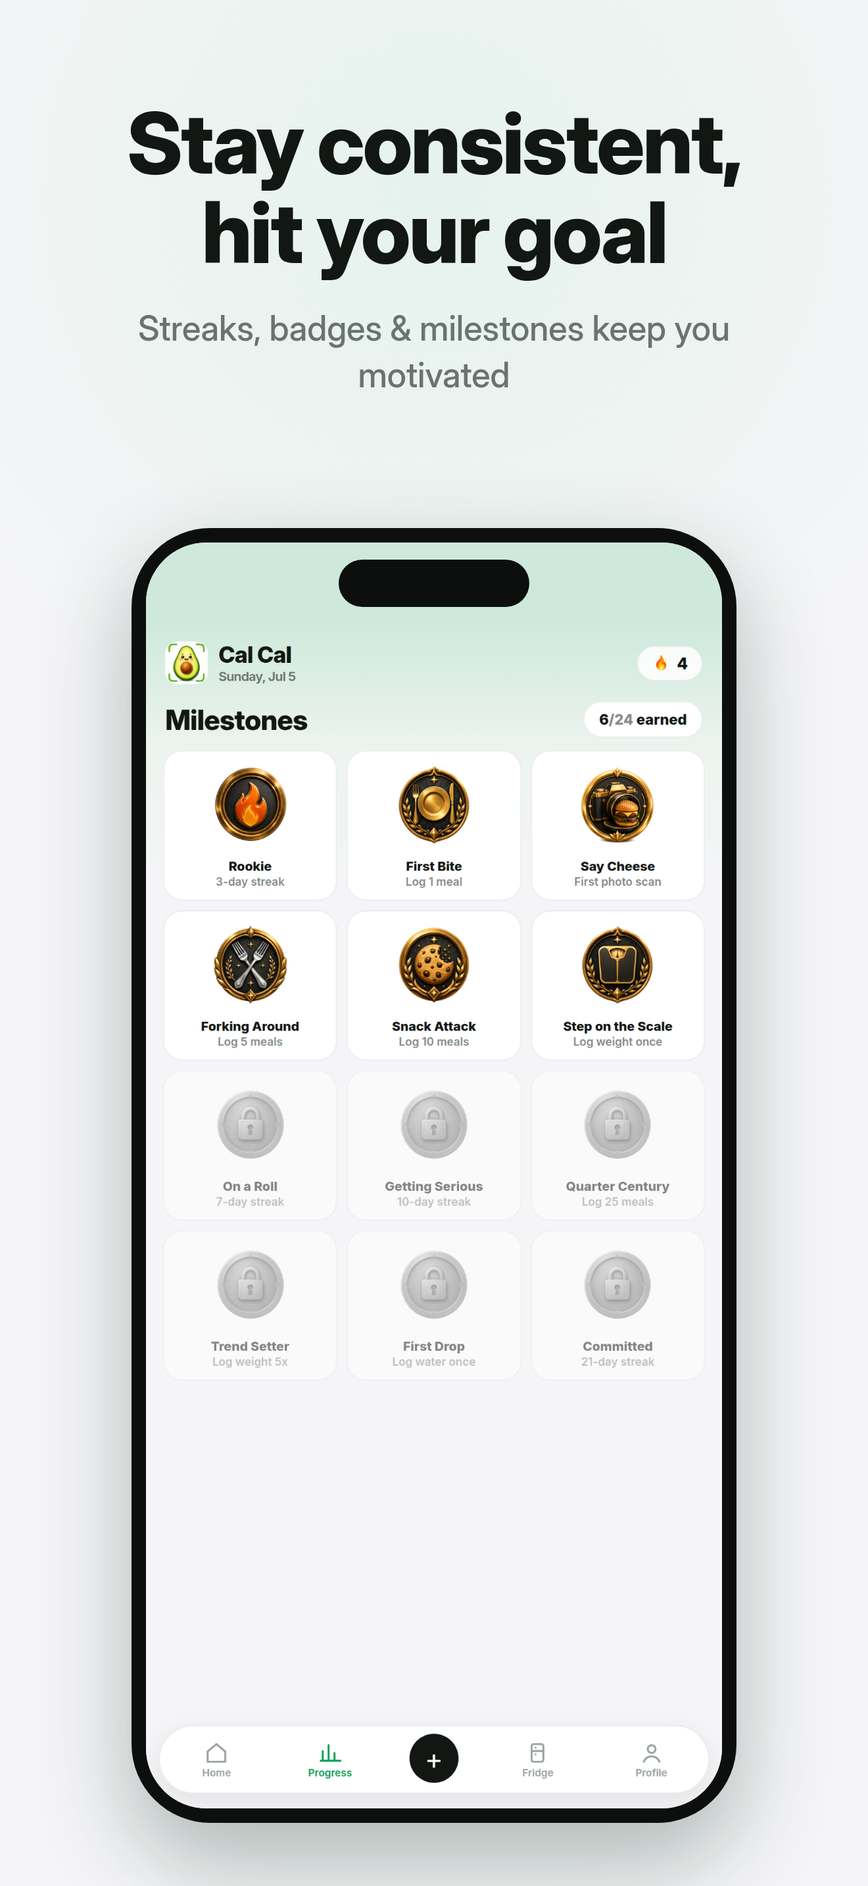
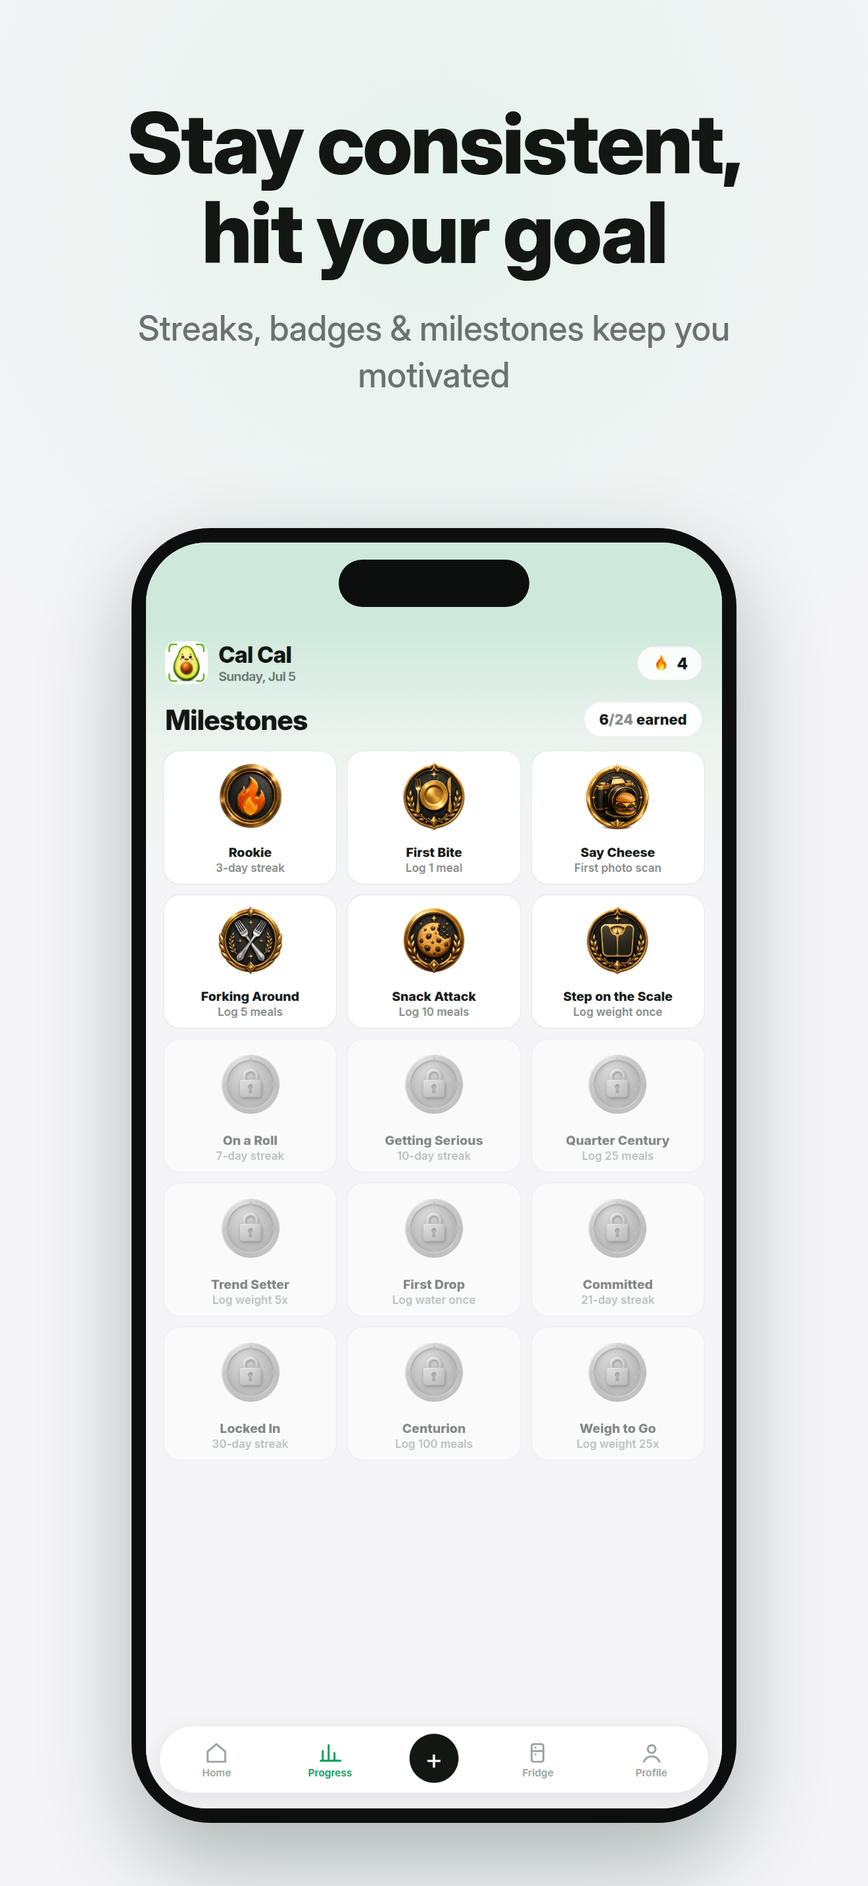
Screenshot set v4: round-3 feedback
1: pop-out now shows the full day (calorie ring, goal/eaten/streak,
   macro rings) in one card
6: transformation tiles upgraded to clothed human figures
7: plan reveal journey is a 4-checkpoint stepper, no longer a chart
8: sealed photoreal wrapper (matte film, crimped ends, printed
   barcode) with scan beam on the wrapper barcode
9: water card removed from the health screen so only the pop-out
   shows it; rollover-calories card added in its place
10: milestones grid now 5 rows / 15 badges, fills the screen

Claude-Session: https://claude.ai/code/session_01U8zB96jntubMM3RPL6Mws6

Changed region(s): [[0.2174, 0.4034, 0.3417, 0.7758], [0.6523, 0.4034, 0.7765, 0.7758], [0.4348, 0.4034, 0.5591, 0.7758]]

diff --git a/appstore/screens2.js b/appstore/screens2.js
@@ -149,18 +149,42 @@ barcode2: `
   <div style="position:absolute;bottom:0;left:0;width:62px;height:62px;border-bottom:6px solid #fff;border-left:6px solid #fff;border-bottom-left-radius:28px;filter:drop-shadow(0 3px 8px rgba(0,0,0,.18))"></div>
   <div style="position:absolute;bottom:0;right:0;width:62px;height:62px;border-bottom:6px solid #fff;border-right:6px solid #fff;border-bottom-right-radius:28px;filter:drop-shadow(0 3px 8px rgba(0,0,0,.18))"></div>
 
-  <!-- real protein bar photo -->
-  <div style="position:absolute;left:10px;right:10px;top:60px;text-align:center;transform:rotate(-3deg)">
-    <img src="file://${S}/assets/bar_real.png" style="width:96%;filter:drop-shadow(0 26px 34px rgba(90,60,20,.35))">
-    <div style="display:inline-block;background:#fff;border-radius:14px;padding:14px 18px 8px;box-shadow:0 10px 26px rgba(90,60,20,.28);margin-top:-30px">
-      <svg viewBox="0 0 300 74" style="width:250px">
-        <rect x="5.0" y="0" width="1.7" height="56" fill="#17140e"/><rect x="11.3" y="0" width="3.4" height="56" fill="#17140e"/><rect x="17.6" y="0" width="1.7" height="56" fill="#17140e"/><rect x="23.9" y="0" width="5.1" height="56" fill="#17140e"/><rect x="30.2" y="0" width="2.55" height="56" fill="#17140e"/><rect x="36.5" y="0" width="1.7" height="56" fill="#17140e"/><rect x="42.8" y="0" width="4.25" height="56" fill="#17140e"/><rect x="49.1" y="0" width="1.7" height="56" fill="#17140e"/><rect x="55.4" y="0" width="2.55" height="56" fill="#17140e"/><rect x="61.699999999999996" y="0" width="3.4" height="56" fill="#17140e"/><rect x="68.0" y="0" width="1.7" height="56" fill="#17140e"/><rect x="74.3" y="0" width="3.4" height="56" fill="#17140e"/><rect x="80.6" y="0" width="1.7" height="56" fill="#17140e"/><rect x="86.89999999999999" y="0" width="5.1" height="56" fill="#17140e"/><rect x="93.2" y="0" width="2.55" height="56" fill="#17140e"/><rect x="99.5" y="0" width="1.7" height="56" fill="#17140e"/><rect x="105.8" y="0" width="4.25" height="56" fill="#17140e"/><rect x="112.1" y="0" width="1.7" height="56" fill="#17140e"/><rect x="118.39999999999999" y="0" width="2.55" height="56" fill="#17140e"/><rect x="124.7" y="0" width="3.4" height="56" fill="#17140e"/><rect x="131.0" y="0" width="1.7" height="56" fill="#17140e"/><rect x="137.29999999999998" y="0" width="3.4" height="56" fill="#17140e"/><rect x="143.6" y="0" width="1.7" height="56" fill="#17140e"/><rect x="149.9" y="0" width="5.1" height="56" fill="#17140e"/><rect x="156.2" y="0" width="2.55" height="56" fill="#17140e"/><rect x="162.5" y="0" width="1.7" height="56" fill="#17140e"/><rect x="168.79999999999998" y="0" width="4.25" height="56" fill="#17140e"/><rect x="175.1" y="0" width="1.7" height="56" fill="#17140e"/><rect x="181.4" y="0" width="2.55" height="56" fill="#17140e"/><rect x="187.7" y="0" width="3.4" height="56" fill="#17140e"/><rect x="194.0" y="0" width="1.7" height="56" fill="#17140e"/><rect x="200.29999999999998" y="0" width="3.4" height="56" fill="#17140e"/><rect x="206.6" y="0" width="1.7" height="56" fill="#17140e"/><rect x="212.9" y="0" width="5.1" height="56" fill="#17140e"/><rect x="219.2" y="0" width="2.55" height="56" fill="#17140e"/><rect x="225.5" y="0" width="1.7" height="56" fill="#17140e"/><rect x="231.79999999999998" y="0" width="4.25" height="56" fill="#17140e"/><rect x="238.1" y="0" width="1.7" height="56" fill="#17140e"/><rect x="244.4" y="0" width="2.55" height="56" fill="#17140e"/><rect x="250.7" y="0" width="3.4" height="56" fill="#17140e"/><rect x="257.0" y="0" width="1.7" height="56" fill="#17140e"/><rect x="263.3" y="0" width="3.4" height="56" fill="#17140e"/><rect x="269.59999999999997" y="0" width="1.7" height="56" fill="#17140e"/><rect x="275.9" y="0" width="5.1" height="56" fill="#17140e"/><rect x="282.2" y="0" width="2.55" height="56" fill="#17140e"/><rect x="288.5" y="0" width="1.7" height="56" fill="#17140e"/>
-        <text x="150" y="72" font-size="14" fill="#17140e" text-anchor="middle" font-family="Inter" font-weight="700">0 41220 88472 5</text>
-      </svg>
+  <!-- sealed protein bar wrapper (photoreal) -->
+  <div style="position:absolute;left:34px;right:34px;top:88px;height:296px;transform:rotate(-4deg);filter:drop-shadow(0 34px 40px rgba(70,50,20,.38))">
+    <svg width="0" height="0"><filter id="noise"><feTurbulence type="fractalNoise" baseFrequency="0.9" numOctaves="2"/><feColorMatrix type="saturate" values="0"/><feComponentTransfer><feFuncA type="linear" slope="0.14"/></feComponentTransfer><feComposite operator="over" in2="SourceGraphic"/></filter></svg>
+    <!-- crimped ends -->
+    <div style="position:absolute;left:-14px;top:26px;bottom:26px;width:34px;background:repeating-linear-gradient(180deg,#5A3B23 0 9px,#7A5433 9px 18px);border-radius:8px 0 0 8px;transform:skewY(-3deg)"></div>
+    <div style="position:absolute;right:-14px;top:26px;bottom:26px;width:34px;background:repeating-linear-gradient(180deg,#5A3B23 0 9px,#7A5433 9px 18px);border-radius:0 8px 8px 0;transform:skewY(3deg)"></div>
+    <!-- wrapper body with cylindrical shading + bar ridges -->
+    <div style="position:absolute;left:12px;right:12px;top:0;bottom:0;border-radius:22px;overflow:hidden;
+      background:
+        linear-gradient(180deg, rgba(0,0,0,.32) 0%, rgba(255,255,255,.16) 9%, rgba(255,255,255,0) 22%, rgba(0,0,0,0) 74%, rgba(0,0,0,.30) 96%),
+        repeating-linear-gradient(90deg, rgba(0,0,0,.05) 0 3px, rgba(255,255,255,.04) 3px 6px),
+        linear-gradient(160deg,#6B4226 0%,#7E5230 30%,#5C3820 65%,#4A2C17 100%);
+      box-shadow: inset 0 4px 14px rgba(255,255,255,.28), inset 0 -8px 18px rgba(0,0,0,.42);">
+      <!-- specular sweep -->
+      <div style="position:absolute;left:14%;top:-40px;bottom:-40px;width:120px;background:linear-gradient(90deg,transparent,rgba(255,255,255,.34),transparent);transform:rotate(14deg)"></div>
+      <div style="position:absolute;left:64%;top:-40px;bottom:-40px;width:46px;background:linear-gradient(90deg,transparent,rgba(255,255,255,.18),transparent);transform:rotate(14deg)"></div>
+      <!-- matte film noise -->
+      <div style="position:absolute;inset:0;filter:url(#noise)"></div>
+      <!-- printed design -->
+      <div style="position:absolute;left:0;right:0;top:34px;text-align:center">
+        <div style="display:inline-flex;align-items:center;gap:8px;color:#F6E7C8;font-size:14px;font-weight:900;letter-spacing:.26em">🥑 CAL PRO</div>
+        <div style="color:#fff;font-size:30px;font-weight:900;letter-spacing:.04em;margin-top:6px;text-shadow:0 2px 6px rgba(0,0,0,.4)">PROTEIN BAR</div>
+        <div style="display:inline-block;background:#F3B33C;color:#4A2C17;font-size:12.5px;font-weight:900;letter-spacing:.14em;padding:6px 16px;border-radius:999px;margin-top:9px;box-shadow:0 3px 8px rgba(0,0,0,.3)">CHOCOLATE CHIP · 20G PROTEIN</div>
+      </div>
+      <!-- printed barcode, bottom right of the wrapper -->
+      <div style="position:absolute;right:24px;bottom:20px;background:#F4EFE6;border-radius:8px;padding:9px 12px 5px;box-shadow:0 2px 8px rgba(0,0,0,.35)">
+        <svg viewBox="0 0 190 52" style="width:158px;display:block">
+          <rect x="4.0" y="0" width="1.2800000000000002" height="38" fill="#241c12"/><rect x="8.6" y="0" width="2.4000000000000004" height="38" fill="#241c12"/><rect x="13.2" y="0" width="1.2800000000000002" height="38" fill="#241c12"/><rect x="17.799999999999997" y="0" width="3.5200000000000005" height="38" fill="#241c12"/><rect x="22.4" y="0" width="1.7600000000000002" height="38" fill="#241c12"/><rect x="27.0" y="0" width="1.2800000000000002" height="38" fill="#241c12"/><rect x="31.599999999999998" y="0" width="2.8800000000000003" height="38" fill="#241c12"/><rect x="36.199999999999996" y="0" width="1.2800000000000002" height="38" fill="#241c12"/><rect x="40.8" y="0" width="1.7600000000000002" height="38" fill="#241c12"/><rect x="45.4" y="0" width="2.4000000000000004" height="38" fill="#241c12"/><rect x="50.0" y="0" width="1.2800000000000002" height="38" fill="#241c12"/><rect x="54.599999999999994" y="0" width="2.4000000000000004" height="38" fill="#241c12"/><rect x="59.199999999999996" y="0" width="1.2800000000000002" height="38" fill="#241c12"/><rect x="63.8" y="0" width="3.5200000000000005" height="38" fill="#241c12"/><rect x="68.39999999999999" y="0" width="1.7600000000000002" height="38" fill="#241c12"/><rect x="73.0" y="0" width="1.2800000000000002" height="38" fill="#241c12"/><rect x="77.6" y="0" width="2.8800000000000003" height="38" fill="#241c12"/><rect x="82.19999999999999" y="0" width="1.2800000000000002" height="38" fill="#241c12"/><rect x="86.8" y="0" width="1.7600000000000002" height="38" fill="#241c12"/><rect x="91.39999999999999" y="0" width="2.4000000000000004" height="38" fill="#241c12"/><rect x="96.0" y="0" width="1.2800000000000002" height="38" fill="#241c12"/><rect x="100.6" y="0" width="2.4000000000000004" height="38" fill="#241c12"/><rect x="105.19999999999999" y="0" width="1.2800000000000002" height="38" fill="#241c12"/><rect x="109.8" y="0" width="3.5200000000000005" height="38" fill="#241c12"/><rect x="114.39999999999999" y="0" width="1.7600000000000002" height="38" fill="#241c12"/><rect x="118.99999999999999" y="0" width="1.2800000000000002" height="38" fill="#241c12"/><rect x="123.6" y="0" width="2.8800000000000003" height="38" fill="#241c12"/><rect x="128.2" y="0" width="1.2800000000000002" height="38" fill="#241c12"/><rect x="132.79999999999998" y="0" width="1.7600000000000002" height="38" fill="#241c12"/><rect x="137.39999999999998" y="0" width="2.4000000000000004" height="38" fill="#241c12"/><rect x="142.0" y="0" width="1.2800000000000002" height="38" fill="#241c12"/><rect x="146.6" y="0" width="2.4000000000000004" height="38" fill="#241c12"/><rect x="151.2" y="0" width="1.2800000000000002" height="38" fill="#241c12"/><rect x="155.79999999999998" y="0" width="3.5200000000000005" height="38" fill="#241c12"/><rect x="160.39999999999998" y="0" width="1.7600000000000002" height="38" fill="#241c12"/><rect x="165.0" y="0" width="1.2800000000000002" height="38" fill="#241c12"/><rect x="169.6" y="0" width="2.8800000000000003" height="38" fill="#241c12"/><rect x="174.2" y="0" width="1.2800000000000002" height="38" fill="#241c12"/><rect x="178.79999999999998" y="0" width="1.7600000000000002" height="38" fill="#241c12"/><rect x="183.39999999999998" y="0" width="2.4000000000000004" height="38" fill="#241c12"/>
+          <text x="95" y="50" font-size="11" fill="#241c12" text-anchor="middle" font-family="Inter" font-weight="700">7 290111 84205 3</text>
+        </svg>
+      </div>
+      <div style="position:absolute;left:24px;bottom:22px;color:rgba(255,255,255,.75);font-size:10.5px;font-weight:700;letter-spacing:.08em">NET WT 52g</div>
     </div>
   </div>
   <!-- scan beam -->
-  <div style="position:absolute;left:16px;right:16px;top:236px;height:4px;background:linear-gradient(90deg,transparent,#19CC6B 25%,#19CC6B 75%,transparent);box-shadow:0 0 22px 4px rgba(25,204,107,.55);border-radius:99px"></div>
+  <div style="position:absolute;right:30px;width:230px;top:322px;height:4px;background:linear-gradient(90deg,transparent,#19CC6B 20%,#19CC6B 80%,transparent);box-shadow:0 0 24px 5px rgba(25,204,107,.6);border-radius:99px;transform:rotate(-4deg)"></div>
 </div>
 
 <!-- popping found pill -->

diff --git a/appstore/screens.js b/appstore/screens.js
@@ -106,13 +106,21 @@ ${APPHEAD}
   <div style="background:rgba(25,204,107,.12);color:#0D9E52;font-weight:800;font-size:12.5px;padding:6px 11px;border-radius:999px">▼ 15.4 lb so far</div></div>
   <div style="display:flex;gap:10px;margin-top:12px">
     <div style="flex:1;background:linear-gradient(180deg,#F3F6F4,#E9EFEA);border-radius:18px;padding:12px 8px;text-align:center">
-      <svg viewBox="0 0 100 150" style="height:120px"><circle cx="50" cy="22" r="15" fill="#B9C8BF"/><path d="M50 40 C16 40 20 70 20 95 L28 148 L72 148 L80 95 C80 70 84 40 50 40 Z" fill="#B9C8BF"/></svg>
+      <svg viewBox="0 0 100 150" style="height:120px">
+      <circle cx="50" cy="18" r="13" fill="#E8B98F"/>
+      <path d="M50 33 C20 33 14 62 15 88 C16 102 22 108 30 108 L34 148 L47 148 L47 112 L53 112 L53 148 L66 148 L70 108 C78 108 84 102 85 88 C86 62 80 33 50 33 Z" fill="#7A8B95"/>
+      <path d="M50 33 C20 33 14 62 15 88 L85 88 C86 62 80 33 50 33 Z" fill="#8FA3AE"/>
+    </svg>
       <div style="font-size:16px;font-weight:800;margin-top:6px">212 lb</div>
       <div class="sub2">Before · Mar 2</div>
     </div>
     <div style="display:flex;align-items:center;font-size:22px;color:#0D9E52;font-weight:800">→</div>
     <div style="flex:1;background:linear-gradient(180deg,#EAF9F0,#DCF3E5);border-radius:18px;padding:12px 8px;text-align:center;border:2px solid #19CC6B">
-      <svg viewBox="0 0 100 150" style="height:120px"><circle cx="50" cy="22" r="15" fill="#B9C8BF"/><path d="M50 40 C28 40 32 70 32 95 L37 148 L63 148 L68 95 C68 70 72 40 50 40 Z" fill="#B9C8BF"/></svg>
+      <svg viewBox="0 0 100 150" style="height:120px">
+      <circle cx="50" cy="18" r="13" fill="#E8B98F"/>
+      <path d="M50 33 C33 33 30 58 31 82 C31.5 94 36 100 41 100 L42 148 L48 148 L48 106 L52 106 L52 148 L58 148 L59 100 C64 100 68.5 94 69 82 C70 58 67 33 50 33 Z" fill="#19CC6B"/>
+      <path d="M50 33 C33 33 30 58 31 82 L69 82 C70 58 67 33 50 33 Z" fill="#31D67F"/>
+    </svg>
       <div style="font-size:16px;font-weight:800;margin-top:6px;color:#0D9E52">196.6 lb</div>
       <div class="sub2">Today · Jul 5</div>
     </div>
@@ -167,16 +175,17 @@ ${[[40,90,'#19CC6B'],[500,60,'#F7A32E'],[80,240,'#4D8FF2'],[470,210,'#F2596B'],[
 <div class="card">
   <div class="row"><div class="h" style="font-size:15px">Your journey to 185 lb</div>
   <div style="background:rgba(25,204,107,.12);color:#0D9E52;font-size:11.5px;font-weight:800;padding:5px 10px;border-radius:999px">14 weeks</div></div>
-  <svg viewBox="0 0 480 150" style="width:100%;margin-top:8px">
-    <path d="M20,30 C140,34 260,70 460,118" fill="none" stroke="#19CC6B" stroke-width="5" stroke-linecap="round"/>
-    <path d="M20,30 C140,34 260,70 460,118 L460,150 L20,150 Z" fill="rgba(25,204,107,.10)"/>
-    <circle cx="20" cy="30" r="9" fill="#fff" stroke="#B9C8BF" stroke-width="4"/>
-    <circle cx="460" cy="118" r="10" fill="#fff" stroke="#0D9E52" stroke-width="5"/>
-    <text x="20" y="66" font-size="15" font-weight="800" fill="#121714" font-family="Inter">212 lb</text>
-    <text x="20" y="84" font-size="11" fill="#858C8A" font-family="Inter">Today</text>
-    <text x="460" y="88" font-size="15" font-weight="800" fill="#0D9E52" text-anchor="end" font-family="Inter">185 lb</text>
-    <text x="460" y="106" font-size="11" fill="#858C8A" text-anchor="end" font-family="Inter">Oct 12</text>
-  </svg>
+  <div style="position:relative;margin-top:18px;padding:0 6px">
+    <div style="position:absolute;left:26px;right:26px;top:17px;height:8px;border-radius:99px;background:linear-gradient(90deg,#19CC6B,#7FE0AC 60%,#E9EDEB 60%)"></div>
+    <div style="display:flex;justify-content:space-between;position:relative">
+      ${[['212 lb','Today','#0D9E52','#19CC6B','✓'],['205','Aug 2','#0D9E52','#19CC6B','✓'],['195','Sep 6','#858C8A','#fff',''],['185 lb','Oct 12','#D98A18','#fff','🏁']].map(st=>`
+      <div style="text-align:center;width:74px">
+        <div style="width:42px;height:42px;border-radius:50%;margin:0 auto;background:${st[3]};border:4px solid ${st[3]==='#fff'?'#D9DFDC':'#0D9E52'};display:flex;align-items:center;justify-content:center;font-size:16px;color:#fff;font-weight:800;box-shadow:0 4px 10px rgba(0,0,0,.08)">${st[4]}</div>
+        <div style="font-size:14.5px;font-weight:800;margin-top:7px;color:${st[2]}">${st[0]}</div>
+        <div style="font-size:10.5px;color:#858C8A;font-weight:600">${st[1]}</div>
+      </div>`).join('')}
+    </div>
+  </div>
 </div>
 
 <div class="card" style="background:#F2FBF6;border-color:#D6F2E2;display:flex;gap:12px;align-items:center;padding:14px 16px">
@@ -272,13 +281,13 @@ ${APPHEAD}
   </div>
 </div>
 <div class="card">
-  <div class="row"><div class="h">Water</div><div class="sub2" style="font-weight:700">1,500 / 2,000 ml</div></div>
-  <div style="display:flex;gap:9px;margin-top:14px">
-    ${Array.from({length:8},(_,i)=>`
-    <div style="flex:1;aspect-ratio:.82;border-radius:12px;display:flex;align-items:center;justify-content:center;font-size:21px;
-      ${i<6?'background:linear-gradient(180deg,#DFF1FB,#BFE3F7);border:1.5px solid #A8D8F2':'background:#F5F7F8;border:1.5px dashed #D5DBDE;opacity:.6'}">💧</div>`).join('')}
+  <div class="row">
+    <div style="display:flex;gap:10px;align-items:center">
+      <div style="width:38px;height:38px;border-radius:12px;background:#FEF6EA;display:flex;align-items:center;justify-content:center;font-size:19px">🔄</div>
+      <div><div class="h" style="font-size:15px">Rollover calories</div><div class="sub2">Unused calories carry into tomorrow</div></div>
+    </div>
+    <div style="font-size:15px;font-weight:800;color:#D98A18">+120</div>
   </div>
-  <div class="sub2" style="margin-top:10px">6 of 8 cups. Tap a cup to log</div>
 </div>
 <div class="card">
   <div class="row">
@@ -302,8 +311,8 @@ ${APPHEAD}
 </div>
 ${(() => {
   const cell = (img, title, detail, locked) => `
-    <div style="background:#fff;border:1px solid #E9ECEE;border-radius:18px;padding:12px 6px 10px;text-align:center;${locked?'opacity:.5':''}">
-      <img src="file://${S}/assets/${img}.png" style="width:78px;height:78px;${locked?'filter:grayscale(1)':''}">
+    <div style="background:#fff;border:1px solid #E9ECEE;border-radius:16px;padding:9px 5px 8px;text-align:center;${locked?'opacity:.5':''}">
+      <img src="file://${S}/assets/${img}.png" style="width:68px;height:68px;${locked?'filter:grayscale(1)':''}">
       <div style="font-size:12px;font-weight:800;margin-top:6px">${title}</div>
       <div style="font-size:10.5px;color:#858C8A;font-weight:600;margin-top:1px">${detail}</div>
     </div>`;
@@ -312,6 +321,7 @@ ${(() => {
     [ ['badge_m5','Forking Around','Log 5 meals',0], ['badge_m10','Snack Attack','Log 10 meals',0], ['badge_w1','Step on the Scale','Log weight once',0] ],
     [ ['badge_locked','On a Roll','7-day streak',1], ['badge_locked','Getting Serious','10-day streak',1], ['badge_locked','Quarter Century','Log 25 meals',1] ],
     [ ['badge_locked','Trend Setter','Log weight 5x',1], ['badge_locked','First Drop','Log water once',1], ['badge_locked','Committed','21-day streak',1] ],
+    [ ['badge_locked','Locked In','30-day streak',1], ['badge_locked','Centurion','Log 100 meals',1], ['badge_locked','Weigh to Go','Log weight 25x',1] ],
   ];
   return rows.map(r=>`<div style="display:flex;gap:9px;margin-bottom:9px">${r.map(c=>`<div style="flex:1">${cell(...c)}</div>`).join('')}</div>`).join('');
 })()}

diff --git a/appstore/generate.js b/appstore/generate.js
@@ -12,19 +12,28 @@ const PANELS = [
     n: 1, frame: 'f_8.4.png', pad: '#CEE9DC',
     headline: 'Track calories<br>with a photo',
     pill: 'AI CALORIE TRACKER & MACRO COUNTER',
-    overlay: `<div class="pop" style="top:880px;width:1000px;transform:translateX(-50%) rotate(-2deg)"><div class="cap">MACROS TODAY</div><div class="ringrow"><div class="ringcell">
-        <div class="cring"><div style="width:190px;height:190px;border-radius:50%;background:conic-gradient(#F2596B 0 276deg,#F8DEE1 276deg 360deg)"></div>
-        <div class="in"><span style="font-size:44px">104g</span><span style="font-size:26px;color:#858C8A;font-weight:700">/136</span></div></div>
-        <div class="lbl" style="color:#F2596B">Protein</div>
-      </div><div class="ringcell">
-        <div class="cring"><div style="width:190px;height:190px;border-radius:50%;background:conic-gradient(#F7A32E 0 336deg,#FBEBD2 336deg 360deg)"></div>
-        <div class="in"><span style="font-size:44px">254g</span><span style="font-size:26px;color:#858C8A;font-weight:700">/272</span></div></div>
-        <div class="lbl" style="color:#F7A32E">Carbs</div>
-      </div><div class="ringcell">
-        <div class="cring"><div style="width:190px;height:190px;border-radius:50%;background:conic-gradient(#4D8FF2 0 305deg,#DCE8FB 305deg 360deg)"></div>
-        <div class="in"><span style="font-size:44px">60g</span><span style="font-size:26px;color:#858C8A;font-weight:700">/71</span></div></div>
-        <div class="lbl" style="color:#4D8FF2">Fat</div>
-      </div></div></div>`,
+    overlay: `<div class="pop" style="top:640px;width:1010px;transform:translateX(-50%) rotate(-2deg);padding:48px 54px">
+      <div class="cap">TODAY AT A GLANCE</div>
+      <div style="display:flex;align-items:center;gap:44px;margin-bottom:40px">
+        <div style="position:relative;width:230px;height:230px;flex:none">
+          <div style="width:230px;height:230px;border-radius:50%;background:conic-gradient(#19CC6B 0 330deg,#DFEFE6 330deg 360deg)"></div>
+          <div style="position:absolute;inset:24px;border-radius:50%;background:#fff;display:flex;flex-direction:column;align-items:center;justify-content:center">
+            <span style="font-size:58px;font-weight:800;letter-spacing:-.02em">3,121</span>
+            <span style="font-size:24px;color:#858C8A;font-weight:700">KCAL LEFT</span>
+          </div>
+        </div>
+        <div style="flex:1;display:flex;flex-direction:column;gap:18px">
+          <div style="display:flex;justify-content:space-between;font-size:32px;font-weight:600;color:#858C8A;border-bottom:2px dashed #E5E8EA;padding-bottom:14px">Goal <b style="color:#121714">3,405</b></div>
+          <div style="display:flex;justify-content:space-between;font-size:32px;font-weight:600;color:#858C8A;border-bottom:2px dashed #E5E8EA;padding-bottom:14px">Eaten <b style="color:#121714">285</b></div>
+          <div style="display:flex;justify-content:space-between;font-size:32px;font-weight:600;color:#858C8A">Streak <b style="color:#0D9E52">4 days 🔥</b></div>
+        </div>
+      </div>
+      <div class="ringrow" style="gap:56px">
+        <div class="ringcell"><div class="cring" style="width:160px;height:160px"><div style="width:160px;height:160px;border-radius:50%;background:conic-gradient(#F2596B 0 276deg,#F8DEE1 276deg 360deg)"></div><div class="in" style="inset:17px"><span style="font-size:36px">104g</span><span style="font-size:22px;color:#858C8A;font-weight:700">/136</span></div></div><div class="lbl" style="color:#F2596B;font-size:26px">Protein</div></div>
+        <div class="ringcell"><div class="cring" style="width:160px;height:160px"><div style="width:160px;height:160px;border-radius:50%;background:conic-gradient(#F7A32E 0 336deg,#FBEBD2 336deg 360deg)"></div><div class="in" style="inset:17px"><span style="font-size:36px">254g</span><span style="font-size:22px;color:#858C8A;font-weight:700">/272</span></div></div><div class="lbl" style="color:#F7A32E;font-size:26px">Carbs</div></div>
+        <div class="ringcell"><div class="cring" style="width:160px;height:160px"><div style="width:160px;height:160px;border-radius:50%;background:conic-gradient(#4D8FF2 0 305deg,#DCE8FB 305deg 360deg)"></div><div class="in" style="inset:17px"><span style="font-size:36px">60g</span><span style="font-size:22px;color:#858C8A;font-weight:700">/71</span></div></div><div class="lbl" style="color:#4D8FF2;font-size:26px">Fat</div></div>
+      </div>
+    </div>`,
   },
   {
     n: 2, frame: 'gen_scan.png', noPad: true,
